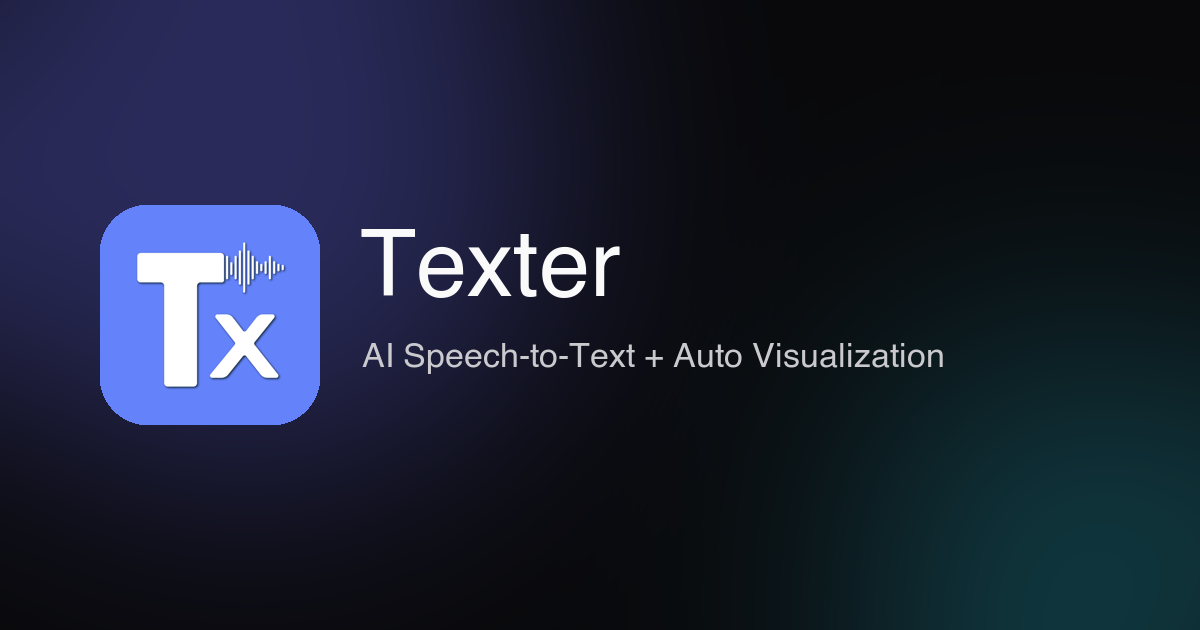
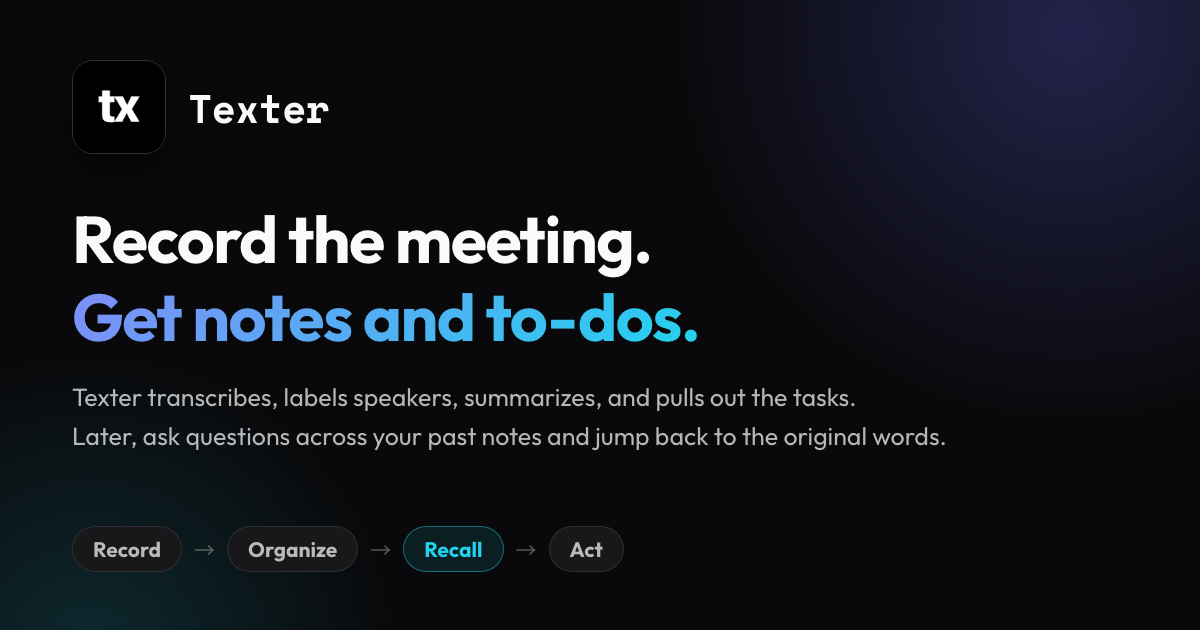
chore: OGP画像を新Hero文案と現行アプリアイコンで作り直し (#6)
- 旧アイコン（青地Tx）と旧タグライン「AI音声文字起こし＋自動可視化」を、
  現行アイコン（黒地tx）と「録るだけで、議事録もタスクも。」+ 4段の流れに差し替え
- 英語版も同様（Record the meeting. Get notes and to-dos.）
- SNS側のキャッシュ回避のため og:image / twitter:image のURLに ?v=2 を付与（全7ページ）
- 再生成用テンプレートと描画スクリプトを scripts/ogp/ に追加

Claude-Session: https://claude.ai/code/session_01YZsTwuxYfzJZNMc4gX4TgU

diff --git a/scripts/ogp/ogp-ja.html b/scripts/ogp/ogp-ja.html
@@ -1,0 +1,26 @@
+<!doctype html><html lang="ja"><head><meta charset="utf-8">
+<link href="https://fonts.googleapis.com/css2?family=Noto+Sans+JP:wght@400;500;700&family=Space+Mono:wght@700&family=Outfit:wght@400;500;700&display=block" rel="stylesheet">
+<style>
+html,body{margin:0;width:1200px;height:630px;overflow:hidden;background:#09090b}
+body{position:relative;font-family:'Noto Sans JP','Noto Sans JP','Hiragino Sans',sans-serif;color:#fafafa;-webkit-font-smoothing:antialiased}
+.glow1{position:absolute;width:900px;height:900px;border-radius:50%;background:radial-gradient(circle,rgba(99,102,241,.28),transparent 62%);right:-320px;top:-420px}
+.glow2{position:absolute;width:700px;height:700px;border-radius:50%;background:radial-gradient(circle,rgba(34,211,238,.16),transparent 62%);left:-260px;bottom:-380px}
+.wrap{position:absolute;inset:0;padding:60px 72px;box-sizing:border-box}
+.brand{display:flex;align-items:center;gap:22px}
+.icon{width:92px;height:92px;border-radius:21px;border:1px solid rgba(255,255,255,.16);box-shadow:0 20px 50px rgba(0,0,0,.5);display:block}
+.word{font-family:'Space Mono',monospace;font-weight:700;font-size:40px;letter-spacing:-1px}
+h1{margin:46px 0 0;font-size:66px;line-height:1.18;font-weight:700;letter-spacing:-1.5px}
+h1 .g{background:linear-gradient(135deg,#818cf8 0%,#22d3ee 100%);-webkit-background-clip:text;background-clip:text;color:transparent}
+.sub{margin:22px 0 0;font-size:25px;line-height:1.55;color:rgba(250,250,250,.72);font-weight:400;max-width:1040px}
+.chips{position:absolute;left:72px;bottom:58px;display:flex;align-items:center;gap:12px}
+.chip{font-size:21px;font-weight:600;padding:9px 20px;border-radius:999px;background:#18181b;border:1px solid rgba(255,255,255,.1);color:rgba(250,250,250,.72);white-space:nowrap}
+.chip.hl{background:rgba(34,211,238,.1);border-color:rgba(34,211,238,.45);color:#22d3ee}
+.arrow{color:rgba(250,250,250,.35);font-size:21px}
+</style></head><body>
+<div class="glow1"></div><div class="glow2"></div>
+<div class="wrap">
+  <div class="brand"><img class="icon" src="appicon.png" alt=""><span class="word">Texter</span></div>
+  <h1>録るだけで、<br><span class="g">議事録もタスクも。</span></h1>
+  <p class="sub">会議や取材を録音すると、文字起こし・話者識別・要約・タスク整理まで自動化。<br>あとから過去の記録に質問して、元の発言まで戻れます。</p>
+  <div class="chips"><span class="chip">記録する</span><span class="arrow">→</span><span class="chip">まとめる</span><span class="arrow">→</span><span class="chip hl">思い出す</span><span class="arrow">→</span><span class="chip">行動する</span></div>
+</div></body></html>

diff --git a/scripts/ogp/ogp-en.html b/scripts/ogp/ogp-en.html
@@ -1,0 +1,26 @@
+<!doctype html><html lang="en"><head><meta charset="utf-8">
+<link href="https://fonts.googleapis.com/css2?family=Noto+Sans+JP:wght@400;500;700&family=Space+Mono:wght@700&family=Outfit:wght@400;500;700&display=block" rel="stylesheet">
+<style>
+html,body{margin:0;width:1200px;height:630px;overflow:hidden;background:#09090b}
+body{position:relative;font-family:'Outfit','Noto Sans JP','Hiragino Sans',sans-serif;color:#fafafa;-webkit-font-smoothing:antialiased}
+.glow1{position:absolute;width:900px;height:900px;border-radius:50%;background:radial-gradient(circle,rgba(99,102,241,.28),transparent 62%);right:-320px;top:-420px}
+.glow2{position:absolute;width:700px;height:700px;border-radius:50%;background:radial-gradient(circle,rgba(34,211,238,.16),transparent 62%);left:-260px;bottom:-380px}
+.wrap{position:absolute;inset:0;padding:60px 72px;box-sizing:border-box}
+.brand{display:flex;align-items:center;gap:22px}
+.icon{width:92px;height:92px;border-radius:21px;border:1px solid rgba(255,255,255,.16);box-shadow:0 20px 50px rgba(0,0,0,.5);display:block}
+.word{font-family:'Space Mono',monospace;font-weight:700;font-size:40px;letter-spacing:-1px}
+h1{margin:46px 0 0;font-size:66px;line-height:1.18;font-weight:700;letter-spacing:-1.5px}
+h1 .g{background:linear-gradient(135deg,#818cf8 0%,#22d3ee 100%);-webkit-background-clip:text;background-clip:text;color:transparent}
+.sub{margin:22px 0 0;font-size:25px;line-height:1.55;color:rgba(250,250,250,.72);font-weight:400;max-width:1040px}
+.chips{position:absolute;left:72px;bottom:58px;display:flex;align-items:center;gap:12px}
+.chip{font-size:21px;font-weight:600;padding:9px 20px;border-radius:999px;background:#18181b;border:1px solid rgba(255,255,255,.1);color:rgba(250,250,250,.72);white-space:nowrap}
+.chip.hl{background:rgba(34,211,238,.1);border-color:rgba(34,211,238,.45);color:#22d3ee}
+.arrow{color:rgba(250,250,250,.35);font-size:21px}
+</style></head><body>
+<div class="glow1"></div><div class="glow2"></div>
+<div class="wrap">
+  <div class="brand"><img class="icon" src="appicon.png" alt=""><span class="word">Texter</span></div>
+  <h1>Record the meeting.<br><span class="g">Get notes and to-dos.</span></h1>
+  <p class="sub">Texter transcribes, labels speakers, summarizes, and pulls out the tasks.<br>Later, ask questions across your past notes and jump back to the original words.</p>
+  <div class="chips"><span class="chip">Record</span><span class="arrow">→</span><span class="chip">Organize</span><span class="arrow">→</span><span class="chip hl">Recall</span><span class="arrow">→</span><span class="chip">Act</span></div>
+</div></body></html>

diff --git a/dist/privacy-policy/index.html b/dist/privacy-policy/index.html
@@ -30,13 +30,13 @@
     <meta property="og:description" content="Texter（AI音声文字起こしアプリ）の個人情報保護方針です。">
     <meta property="og:site_name" content="Texter">
     <meta property="og:locale" content="ja_JP">
-    <meta property="og:image" content="https://texter.work/img/ogp.png">
+    <meta property="og:image" content="https://texter.work/img/ogp.png?v=2">
     <meta property="og:image:width" content="1200">
     <meta property="og:image:height" content="630">
     <meta name="twitter:card" content="summary_large_image">
     <meta name="twitter:title" content="プライバシーポリシー | Texter">
     <meta name="twitter:description" content="Texter（AI音声文字起こしアプリ）の個人情報保護方針です。">
-    <meta name="twitter:image" content="https://texter.work/img/ogp.png">
+    <meta name="twitter:image" content="https://texter.work/img/ogp.png?v=2">
 
     <!-- Favicon -->
     <link rel="icon" href="/assets/favicon/favicon.ico?v=2" sizes="any">

diff --git a/privacy-policy/index.html b/privacy-policy/index.html
@@ -30,13 +30,13 @@
     <meta property="og:description" content="Texter（AI音声文字起こしアプリ）の個人情報保護方針です。">
     <meta property="og:site_name" content="Texter">
     <meta property="og:locale" content="ja_JP">
-    <meta property="og:image" content="https://texter.work/img/ogp.png">
+    <meta property="og:image" content="https://texter.work/img/ogp.png?v=2">
     <meta property="og:image:width" content="1200">
     <meta property="og:image:height" content="630">
     <meta name="twitter:card" content="summary_large_image">
     <meta name="twitter:title" content="プライバシーポリシー | Texter">
     <meta name="twitter:description" content="Texter（AI音声文字起こしアプリ）の個人情報保護方針です。">
-    <meta name="twitter:image" content="https://texter.work/img/ogp.png">
+    <meta name="twitter:image" content="https://texter.work/img/ogp.png?v=2">
 
     <!-- Favicon -->
     <link rel="icon" href="/assets/favicon/favicon.ico?v=2" sizes="any">

diff --git a/dist/tokushoho/index.html b/dist/tokushoho/index.html
@@ -29,13 +29,13 @@
     <meta property="og:description" content="Texterアプリの特定商取引法に基づく表記です。">
     <meta property="og:site_name" content="Texter">
     <meta property="og:locale" content="ja_JP">
-    <meta property="og:image" content="https://texter.work/img/ogp.png">
+    <meta property="og:image" content="https://texter.work/img/ogp.png?v=2">
     <meta property="og:image:width" content="1200">
     <meta property="og:image:height" content="630">
     <meta name="twitter:card" content="summary_large_image">
     <meta name="twitter:title" content="特定商取引法に基づく表記 | Texter">
     <meta name="twitter:description" content="Texterアプリの特定商取引法に基づく表記です。">
-    <meta name="twitter:image" content="https://texter.work/img/ogp.png">
+    <meta name="twitter:image" content="https://texter.work/img/ogp.png?v=2">
 
     <!-- Favicon -->
     <link rel="icon" href="/assets/favicon/favicon.ico?v=2" sizes="any">

diff --git a/tokushoho/index.html b/tokushoho/index.html
@@ -29,13 +29,13 @@
     <meta property="og:description" content="Texterアプリの特定商取引法に基づく表記です。">
     <meta property="og:site_name" content="Texter">
     <meta property="og:locale" content="ja_JP">
-    <meta property="og:image" content="https://texter.work/img/ogp.png">
+    <meta property="og:image" content="https://texter.work/img/ogp.png?v=2">
     <meta property="og:image:width" content="1200">
     <meta property="og:image:height" content="630">
     <meta name="twitter:card" content="summary_large_image">
     <meta name="twitter:title" content="特定商取引法に基づく表記 | Texter">
     <meta name="twitter:description" content="Texterアプリの特定商取引法に基づく表記です。">
-    <meta name="twitter:image" content="https://texter.work/img/ogp.png">
+    <meta name="twitter:image" content="https://texter.work/img/ogp.png?v=2">
 
     <!-- Favicon -->
     <link rel="icon" href="/assets/favicon/favicon.ico?v=2" sizes="any">

diff --git a/dist/terms-of-service/index.html b/dist/terms-of-service/index.html
@@ -30,13 +30,13 @@
     <meta property="og:description" content="Texter（AI音声文字起こしアプリ）の利用規約です。">
     <meta property="og:site_name" content="Texter">
     <meta property="og:locale" content="ja_JP">
-    <meta property="og:image" content="https://texter.work/img/ogp.png">
+    <meta property="og:image" content="https://texter.work/img/ogp.png?v=2">
     <meta property="og:image:width" content="1200">
     <meta property="og:image:height" content="630">
     <meta name="twitter:card" content="summary_large_image">
     <meta name="twitter:title" content="利用規約 | Texter">
     <meta name="twitter:description" content="Texter（AI音声文字起こしアプリ）の利用規約です。">
-    <meta name="twitter:image" content="https://texter.work/img/ogp.png">
+    <meta name="twitter:image" content="https://texter.work/img/ogp.png?v=2">
 
     <!-- Favicon -->
     <link rel="icon" href="/assets/favicon/favicon.ico?v=2" sizes="any">

diff --git a/terms-of-service/index.html b/terms-of-service/index.html
@@ -30,13 +30,13 @@
     <meta property="og:description" content="Texter（AI音声文字起こしアプリ）の利用規約です。">
     <meta property="og:site_name" content="Texter">
     <meta property="og:locale" content="ja_JP">
-    <meta property="og:image" content="https://texter.work/img/ogp.png">
+    <meta property="og:image" content="https://texter.work/img/ogp.png?v=2">
     <meta property="og:image:width" content="1200">
     <meta property="og:image:height" content="630">
     <meta name="twitter:card" content="summary_large_image">
     <meta name="twitter:title" content="利用規約 | Texter">
     <meta name="twitter:description" content="Texter（AI音声文字起こしアプリ）の利用規約です。">
-    <meta name="twitter:image" content="https://texter.work/img/ogp.png">
+    <meta name="twitter:image" content="https://texter.work/img/ogp.png?v=2">
 
     <!-- Favicon -->
     <link rel="icon" href="/assets/favicon/favicon.ico?v=2" sizes="any">

diff --git a/dist/en/terms-of-service/index.html b/dist/en/terms-of-service/index.html
@@ -30,13 +30,13 @@
     <meta property="og:description" content="Terms of Service for Texter, the AI speech-to-text app.">
     <meta property="og:site_name" content="Texter">
     <meta property="og:locale" content="en_US">
-    <meta property="og:image" content="https://texter.work/img/ogp-en.png">
+    <meta property="og:image" content="https://texter.work/img/ogp-en.png?v=2">
     <meta property="og:image:width" content="1200">
     <meta property="og:image:height" content="630">
     <meta name="twitter:card" content="summary_large_image">
     <meta name="twitter:title" content="Terms of Service | Texter">
     <meta name="twitter:description" content="Terms of Service for Texter, the AI speech-to-text app.">
-    <meta name="twitter:image" content="https://texter.work/img/ogp-en.png">
+    <meta name="twitter:image" content="https://texter.work/img/ogp-en.png?v=2">
 
     <!-- Favicon -->
     <link rel="icon" href="/assets/favicon/favicon.ico?v=2" sizes="any">

diff --git a/en/terms-of-service/index.html b/en/terms-of-service/index.html
@@ -30,13 +30,13 @@
     <meta property="og:description" content="Terms of Service for Texter, the AI speech-to-text app.">
     <meta property="og:site_name" content="Texter">
     <meta property="og:locale" content="en_US">
-    <meta property="og:image" content="https://texter.work/img/ogp-en.png">
+    <meta property="og:image" content="https://texter.work/img/ogp-en.png?v=2">
     <meta property="og:image:width" content="1200">
     <meta property="og:image:height" content="630">
     <meta name="twitter:card" content="summary_large_image">
     <meta name="twitter:title" content="Terms of Service | Texter">
     <meta name="twitter:description" content="Terms of Service for Texter, the AI speech-to-text app.">
-    <meta name="twitter:image" content="https://texter.work/img/ogp-en.png">
+    <meta name="twitter:image" content="https://texter.work/img/ogp-en.png?v=2">
 
     <!-- Favicon -->
     <link rel="icon" href="/assets/favicon/favicon.ico?v=2" sizes="any">

diff --git a/dist/en/privacy-policy/index.html b/dist/en/privacy-policy/index.html
@@ -30,13 +30,13 @@
     <meta property="og:description" content="Privacy Policy for Texter, the AI speech-to-text app.">
     <meta property="og:site_name" content="Texter">
     <meta property="og:locale" content="en_US">
-    <meta property="og:image" content="https://texter.work/img/ogp-en.png">
+    <meta property="og:image" content="https://texter.work/img/ogp-en.png?v=2">
     <meta property="og:image:width" content="1200">
     <meta property="og:image:height" content="630">
     <meta name="twitter:card" content="summary_large_image">
     <meta name="twitter:title" content="Privacy Policy | Texter">
     <meta name="twitter:description" content="Privacy Policy for Texter, the AI speech-to-text app.">
-    <meta name="twitter:image" content="https://texter.work/img/ogp-en.png">
+    <meta name="twitter:image" content="https://texter.work/img/ogp-en.png?v=2">
 
     <!-- Favicon -->
     <link rel="icon" href="/assets/favicon/favicon.ico?v=2" sizes="any">

diff --git a/en/privacy-policy/index.html b/en/privacy-policy/index.html
@@ -30,13 +30,13 @@
     <meta property="og:description" content="Privacy Policy for Texter, the AI speech-to-text app.">
     <meta property="og:site_name" content="Texter">
     <meta property="og:locale" content="en_US">
-    <meta property="og:image" content="https://texter.work/img/ogp-en.png">
+    <meta property="og:image" content="https://texter.work/img/ogp-en.png?v=2">
     <meta property="og:image:width" content="1200">
     <meta property="og:image:height" content="630">
     <meta name="twitter:card" content="summary_large_image">
     <meta name="twitter:title" content="Privacy Policy | Texter">
     <meta name="twitter:description" content="Privacy Policy for Texter, the AI speech-to-text app.">
-    <meta name="twitter:image" content="https://texter.work/img/ogp-en.png">
+    <meta name="twitter:image" content="https://texter.work/img/ogp-en.png?v=2">
 
     <!-- Favicon -->
     <link rel="icon" href="/assets/favicon/favicon.ico?v=2" sizes="any">
